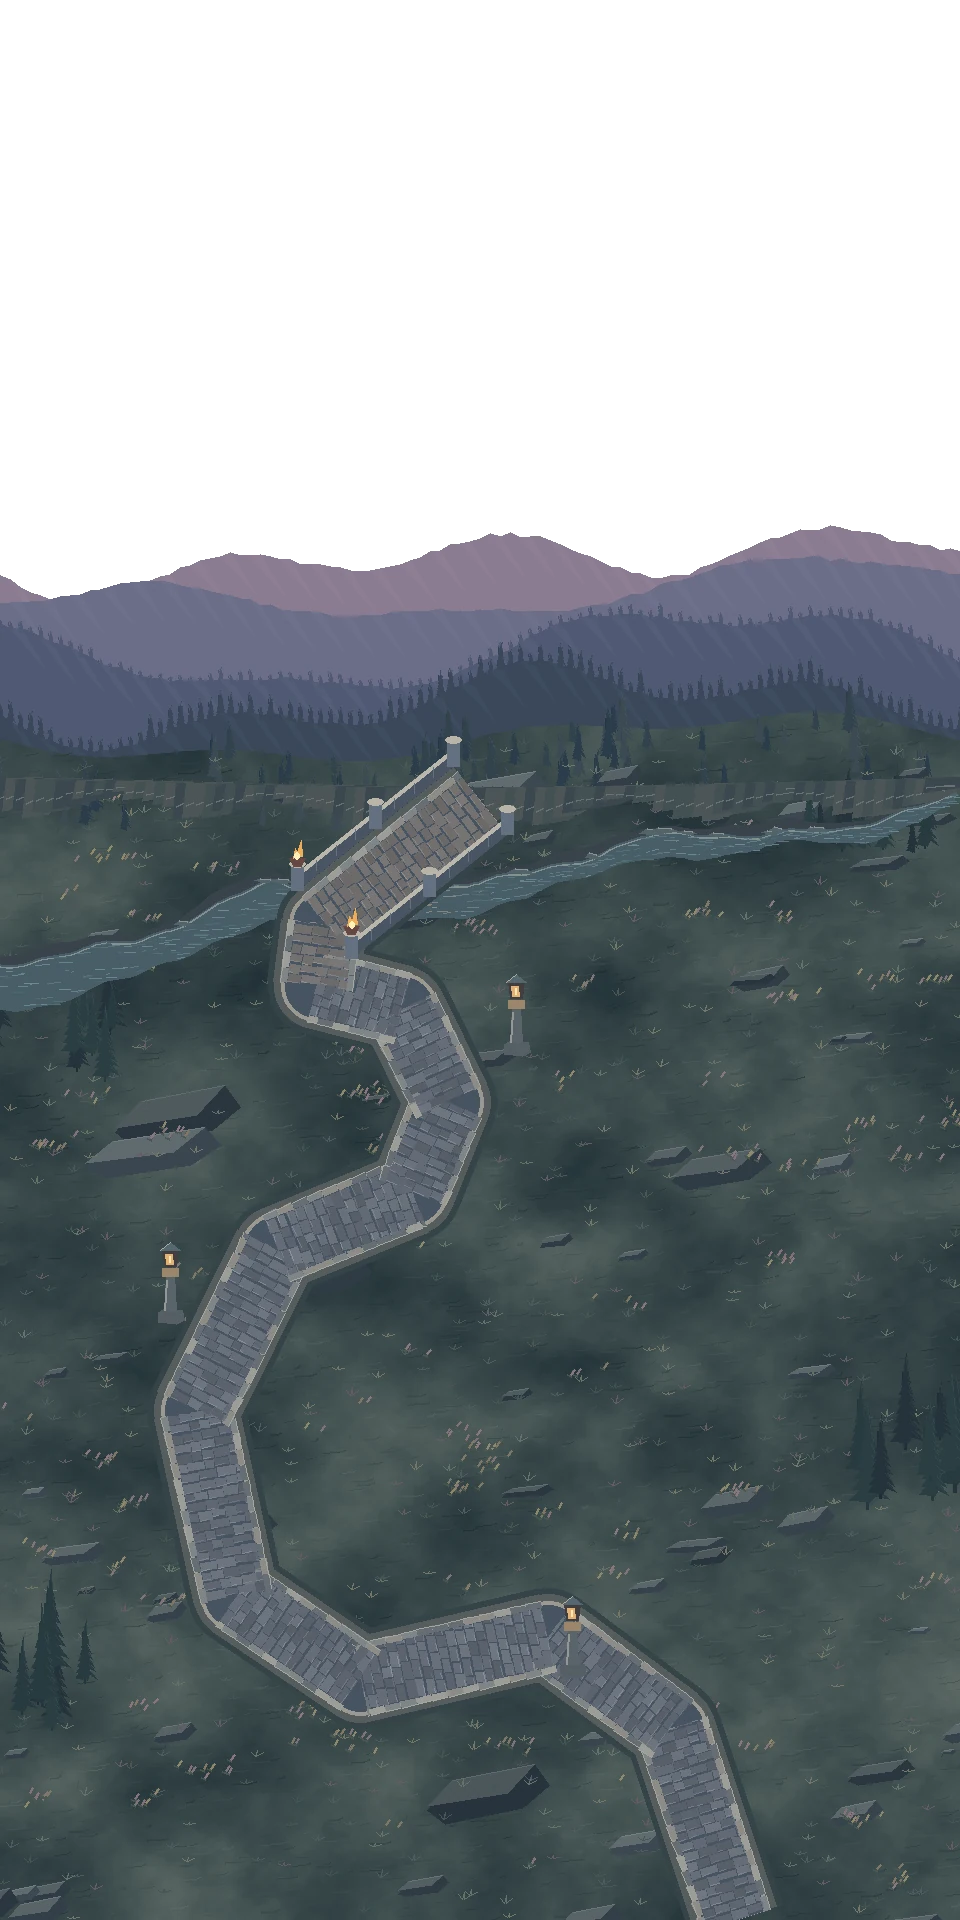
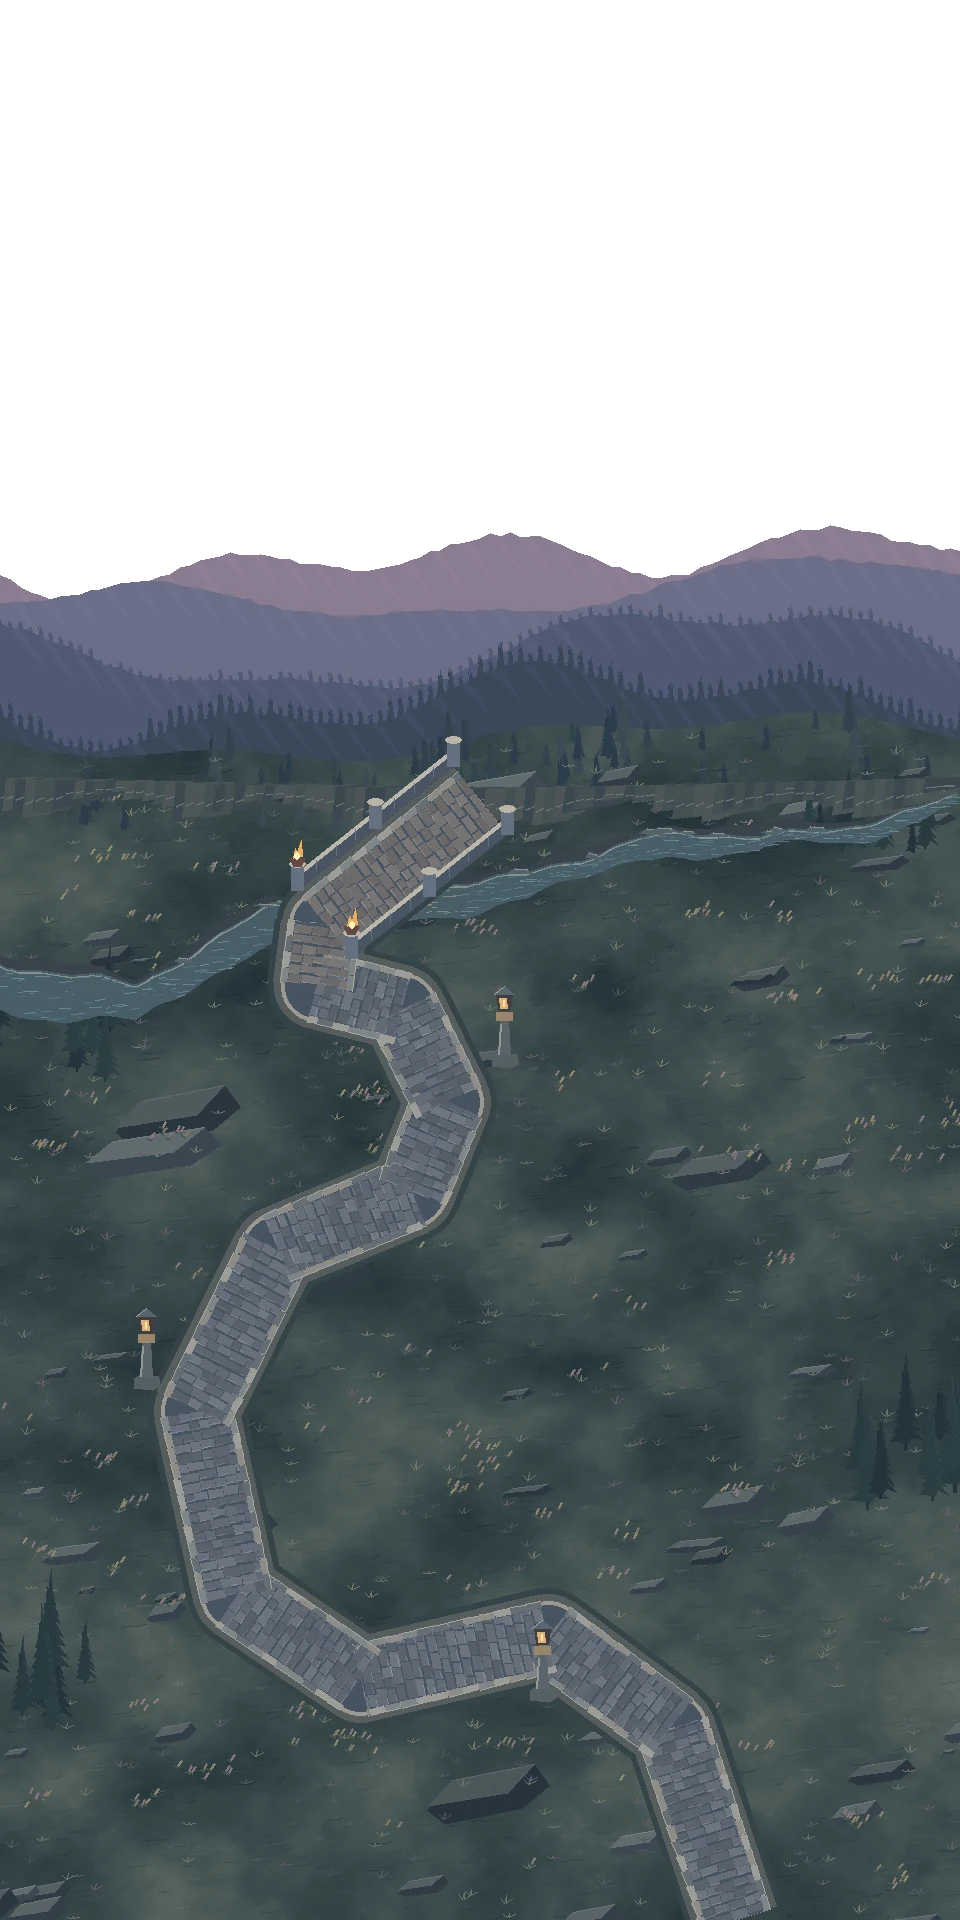
Set wayside lanterns clear of the collectors and crews

diff --git a/scripts/art/keep_weather.py b/scripts/art/keep_weather.py
@@ -168,7 +168,7 @@ def field(p,horizon):
 def burn(p,turned):
     """A stream undercuts the keep's bedrock and passes under the gate bridge."""
     r=p.rng
-    controls=([(0,486),(68,473),(135,444),(201,447),(263,439),(320,420),(418,416),(480,398)]
+    controls=([(0,486),(68,495),(135,456),(201,447),(263,439),(320,420),(418,416),(480,398)]
               if turned else [(0,384),(78,365),(118,338),(233,325),(329,295),(434,284),(510,246),(608,217),(707,200),(770,171)])
     points=[]
     for (x1,y1),(x2,y2) in zip(controls,controls[1:]):
@@ -198,7 +198,7 @@ def burn(p,turned):
 
 def waylights(p,turned):
     """Little copper lanterns on cut-stone mileposts give the road a human scale."""
-    for x,y in ([(286,837),(85,660),(258,526)] if turned else [(844,183),(713,352),(587,303)]):
+    for x,y in ([(271,849),(73,693),(252,532)] if turned else [(862,192),(713,352),(578,303)]):
         p.poly([(x-6,y+1),(x-6,y-4),(x-3,y-6),(x+6,y-5),(x+7,y),(x+3,y+2)],'#555f64')
         p.poly([(x-3,y-5),(x-2,y-22),(x+2,y-23),(x+3,y-5)],'#59646a')
         p.line([(x-2,y-20),(x-3,y-5)],'#969794',1)
